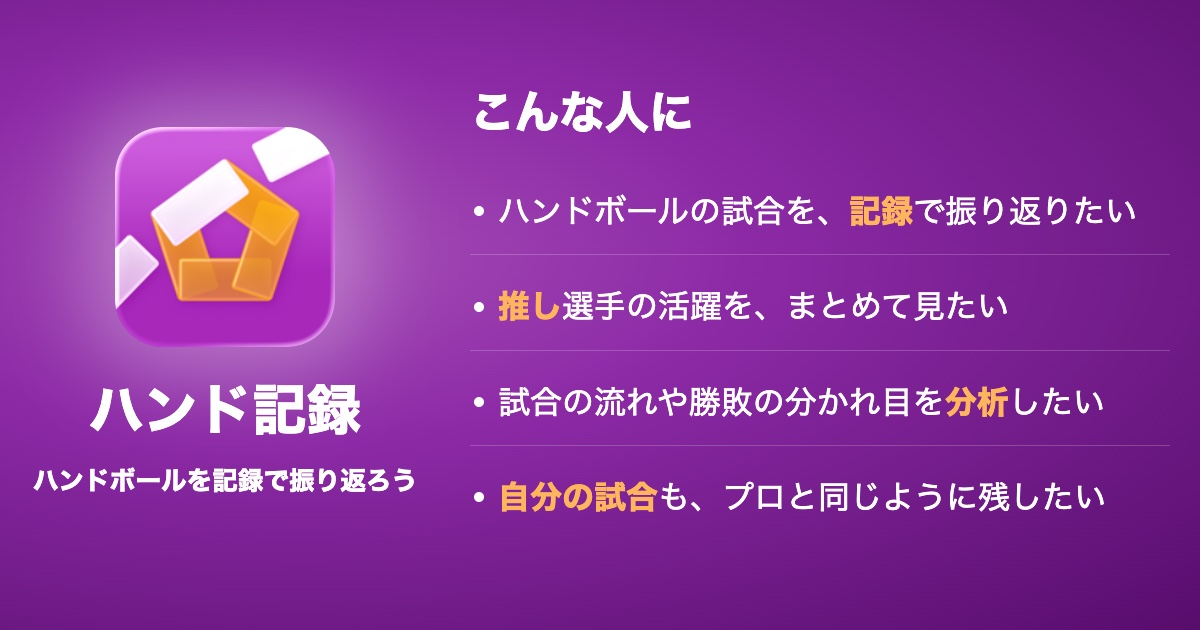
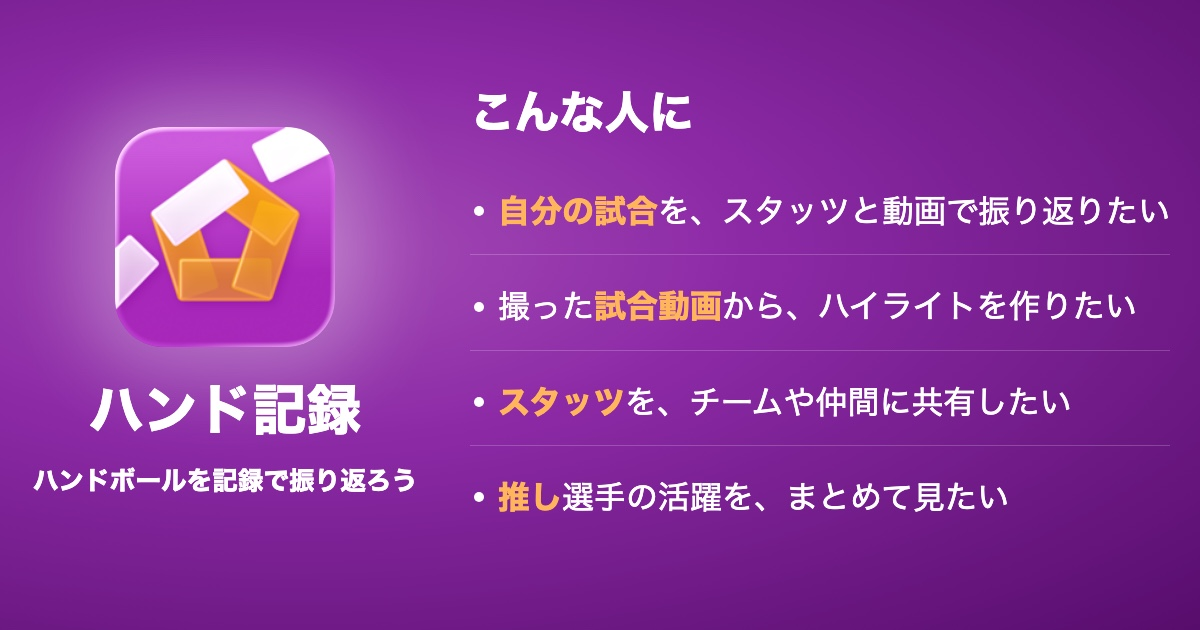
feat: OG 画像を cycle-8 訴求に更新し、再生成を script 化
- 「こんな人に」を 自分の試合 / 撮った試合動画 / スタッツ共有 / 推し の 4 項目に差し替え
- scripts/generate-og.sh を追加（ヘッドレス Chrome で 1200×630 → sips で JPEG 化）
- og-source の CSS 参照を相対パス化し、サーバー不要（file://）で再現可能に
- README に再生成手順を記載

diff --git a/handball-recorder/og-source/index.html b/handball-recorder/og-source/index.html
@@ -3,7 +3,7 @@
 <head>
 <meta charset="UTF-8">
 <title>OG source — ハンド記録</title>
-<link rel="stylesheet" href="/handball-apps-site/style.css">
+<link rel="stylesheet" href="../../style.css">
 <style>
     html, body {
         margin: 0;
@@ -99,10 +99,10 @@
         <div class="og-right">
             <h2>こんな人に</h2>
             <ul>
-                <li>ハンドボールの試合を、<strong class="hl">記録</strong>で振り返りたい</li>
+                <li><strong class="hl">自分の試合</strong>を、スタッツと動画で振り返りたい</li>
+                <li>撮った<strong class="hl">試合動画</strong>から、ハイライトを作りたい</li>
+                <li><strong class="hl">スタッツ</strong>を、チームや仲間に共有したい</li>
                 <li><strong class="hl">推し</strong>選手の活躍を、まとめて見たい</li>
-                <li>試合の流れや勝敗の分かれ目を<strong class="hl">分析</strong>したい</li>
-                <li><strong class="hl">自分の試合</strong>も、プロと同じように残したい</li>
             </ul>
         </div>
     </div>
